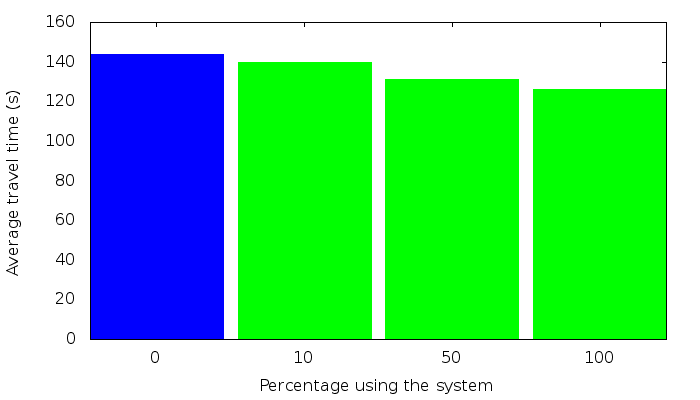
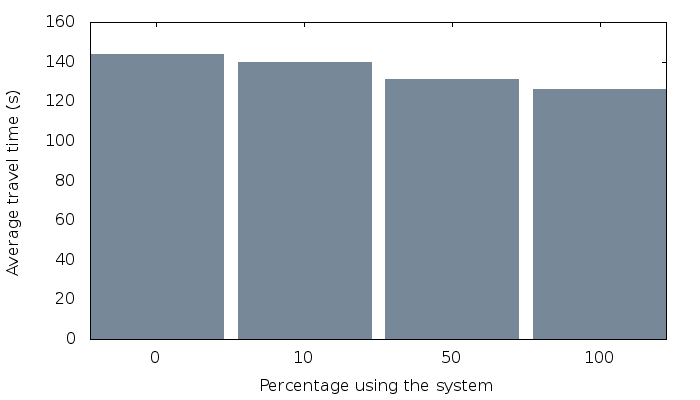
more work.

diff --git a/AAKPresentation/src/Motivation.tex b/AAKPresentation/src/Motivation.tex
@@ -8,7 +8,7 @@ Kan man med \textbf{information} om trafiksignaler og evt. trængsel\\\textbf{sp
 \end{frame}
 
 \begin{frame}{Hvad er problemet?}
-Reducere brændsstofforbug (miljø og økonomi)
+\textbf{Reducere brændsstofforbug} (miljø og økonomi)
 
 Maksimering af trafikflow
 
@@ -67,7 +67,7 @@ Ulemper
 
 \begin{frame}{Hastighedstilpasning}
 \begin{itemize}
-\item Ét tænkt lyskryds
+\item Et tænkt lyskryds
 \item Blå biler: uden GreenFlow \hspace{8mm} Røde biler: med GreenFlow
 \end{itemize}
 \vspace{3mm}
@@ -76,7 +76,7 @@ Ulemper
 
 \begin{frame}{Hastighedstilpasning}
 \begin{itemize}
-\item Ét tænkt lyskryds
+\item Et tænkt lyskryds
 \item Blå biler: uden GreenFlow \hspace{8mm} Røde biler: med GreenFlow
 \end{itemize}
 \vspace{3mm}
@@ -87,5 +87,14 @@ Ulemper
 \begin{center}
 \includegraphics[width=1\textwidth]{../images/product.png}
 \end{center}
+\end{frame}
+
+\begin{frame}{Relateret arbejde}
+Efter vores kendskab
+\begin{itemize}
+\item Simulering i meget simple opsætninger
+\item Intet brugbart værktøj %TODO: omformulér
+\end{itemize}
+
 \end{frame}
 

diff --git a/imgGen.py b/imgGen.py
@@ -90,10 +90,10 @@ if(len(sys.argv) > 3):
 		print "set xtics (\"0\" 0, \"10\" 1, \"50\" 2, \"100\" 3)"
 		print "set yrange [0:]"
 		output = "plot "
-		output += "\"TestResults/" + dataset + "/0/avg.dat\" using (0):1 with boxes fill solid lc rgb 'blue',"
-		output += "\"TestResults/" + dataset + "/10/avg.dat\" using (1):1 with boxes fill solid lc rgb 'green',"
-		output += "\"TestResults/" + dataset + "/50/avg.dat\" using (2):1 with boxes fill solid lc rgb 'green',"
-		output += "\"TestResults/" + dataset + "/100/avg.dat\" using (3):1 with boxes fill solid lc rgb 'green'"
+		output += "\"TestResults/" + dataset + "/0/avg.dat\" using (0):1 with boxes fill solid lc rgb '#778899',"
+		output += "\"TestResults/" + dataset + "/10/avg.dat\" using (1):1 with boxes fill solid lc rgb '#778899',"
+		output += "\"TestResults/" + dataset + "/50/avg.dat\" using (2):1 with boxes fill solid lc rgb '#778899',"
+		output += "\"TestResults/" + dataset + "/100/avg.dat\" using (3):1 with boxes fill solid lc rgb '#778899'"
 		print output
 		
 	elif sys.argv[1].find("acceleration") == 0:

diff --git a/AAKPresentation/src/Resultater.tex b/AAKPresentation/src/Resultater.tex
@@ -53,7 +53,7 @@
 \includegraphics[width=1\textwidth]{../images/tp0/combinedFuel.png}
 \end{frame}
 
-\begin{frame}{Rejsetid - Sammenligning}
+\begin{frame}{Gennemsnitlig rejsetid for alle ruter - Sammenligning}
 \includegraphics[width=1\textwidth]{../images/tp0/combinedTime.png}
 \end{frame}
 
